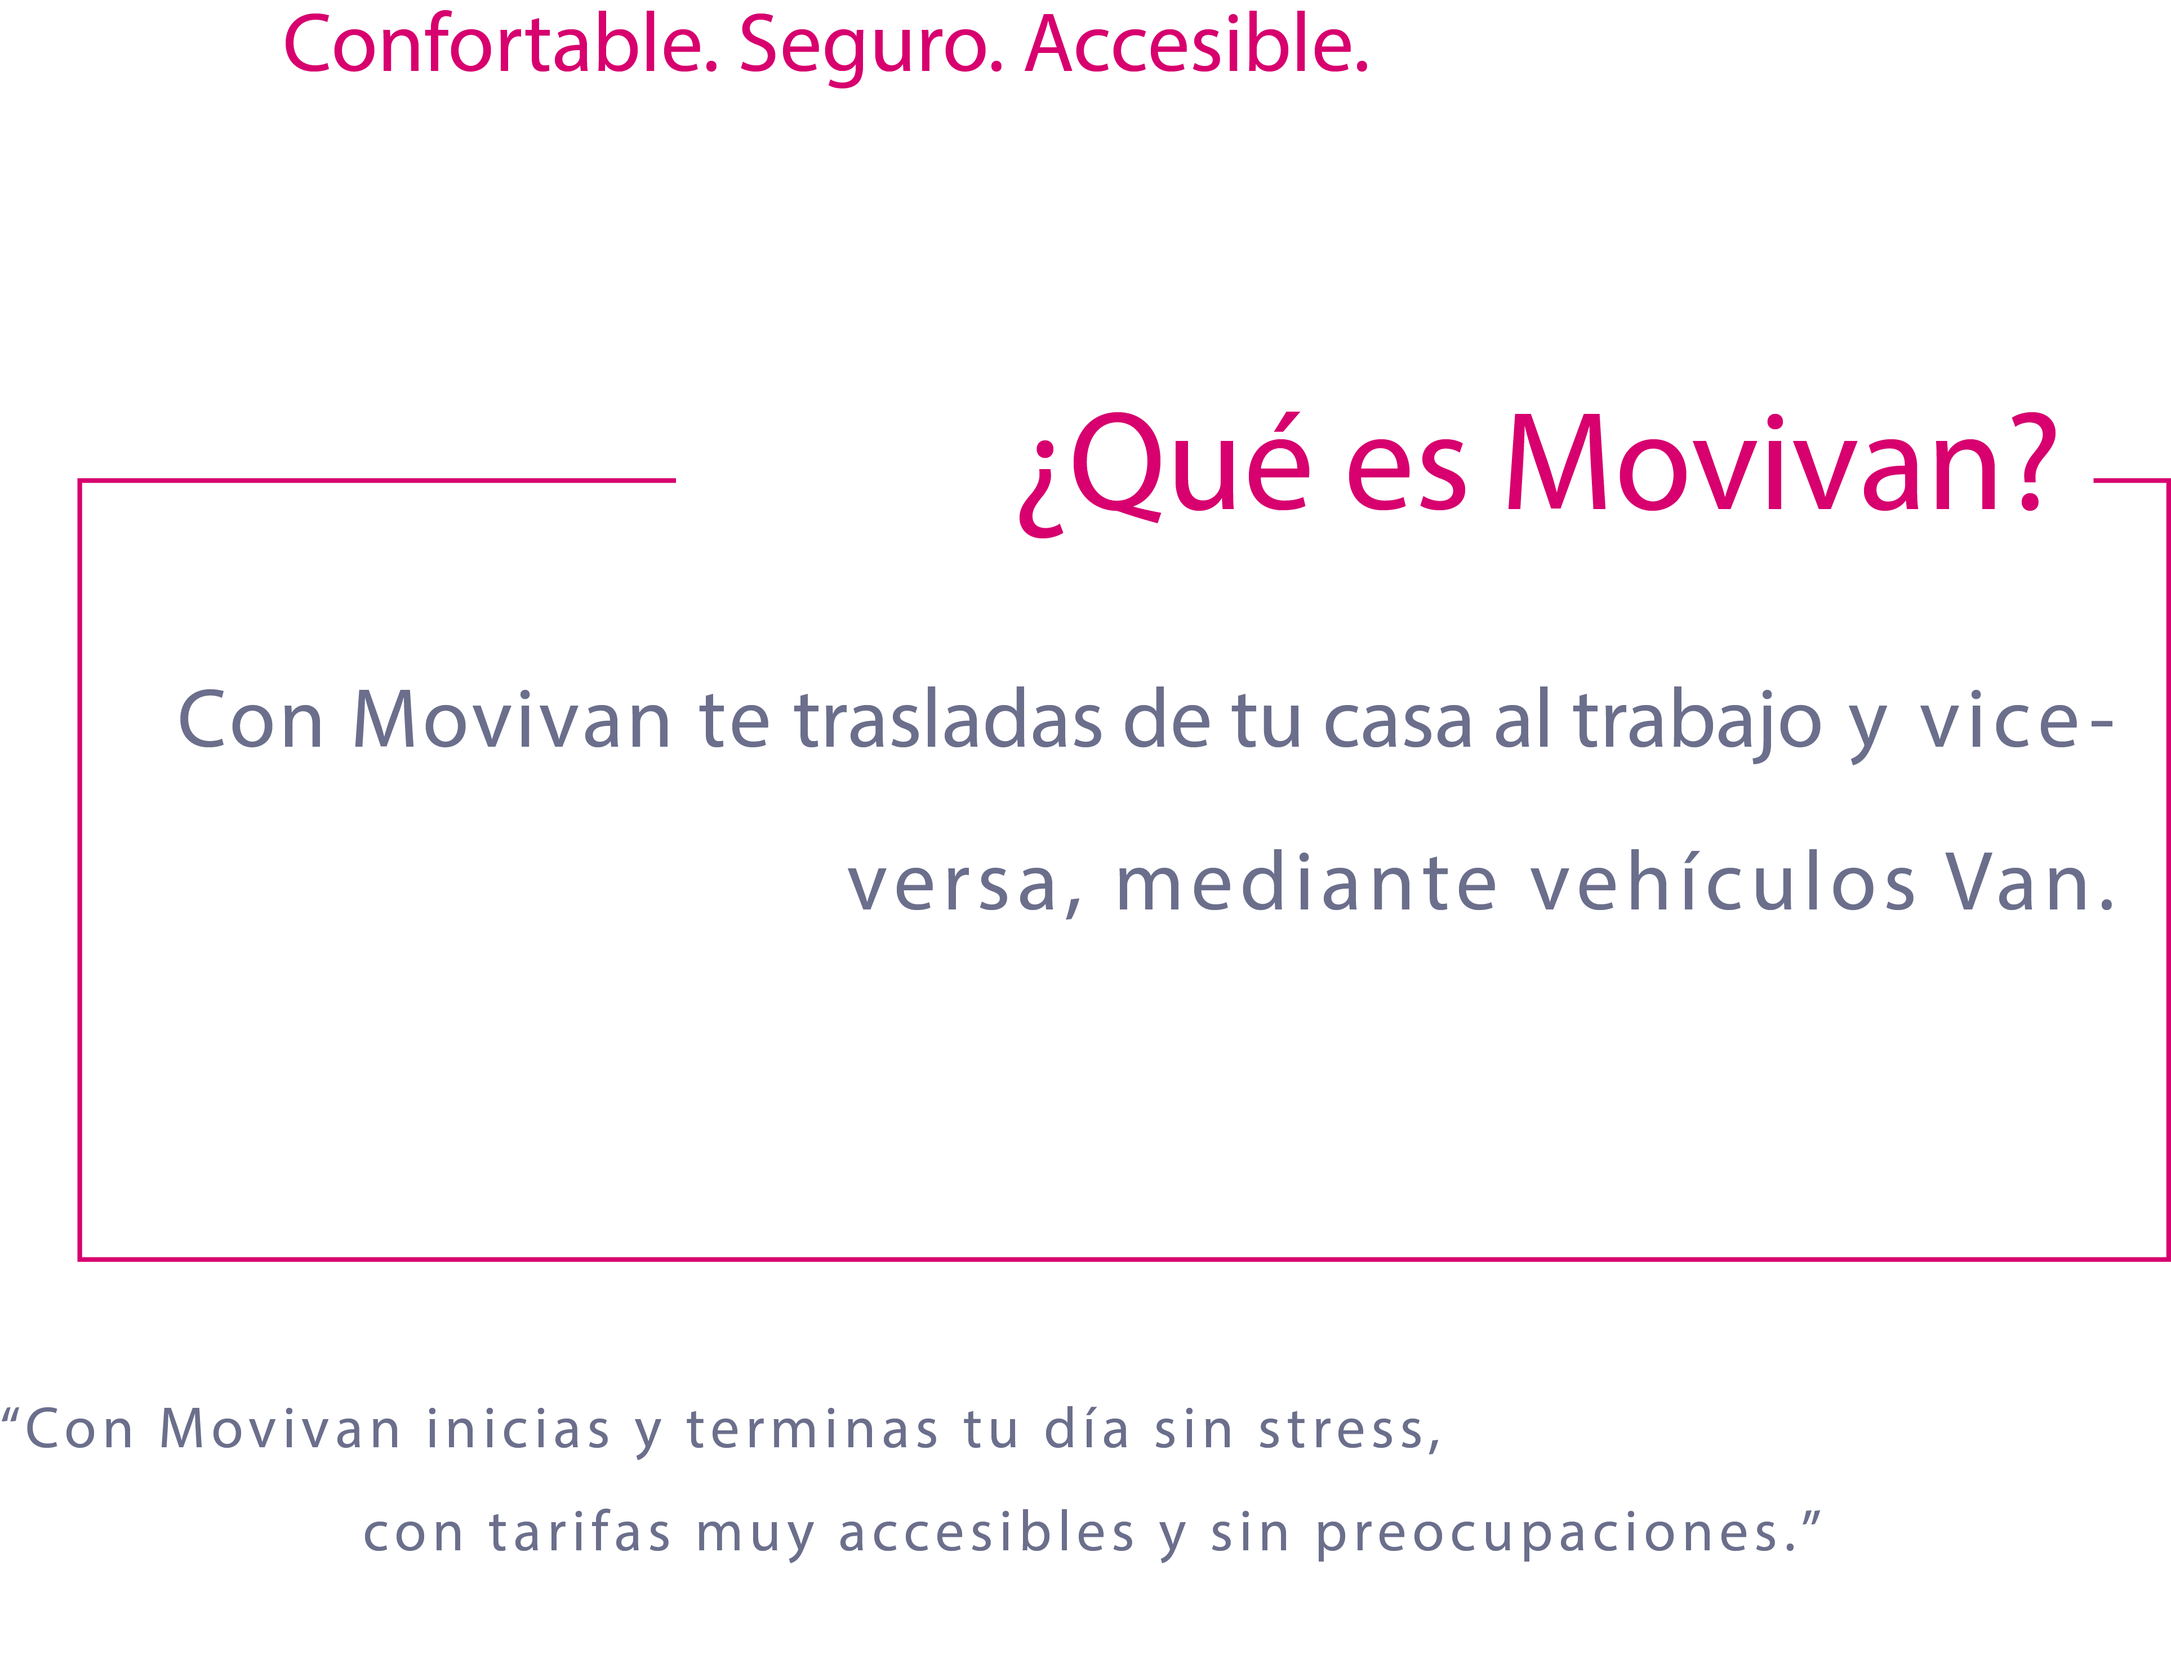
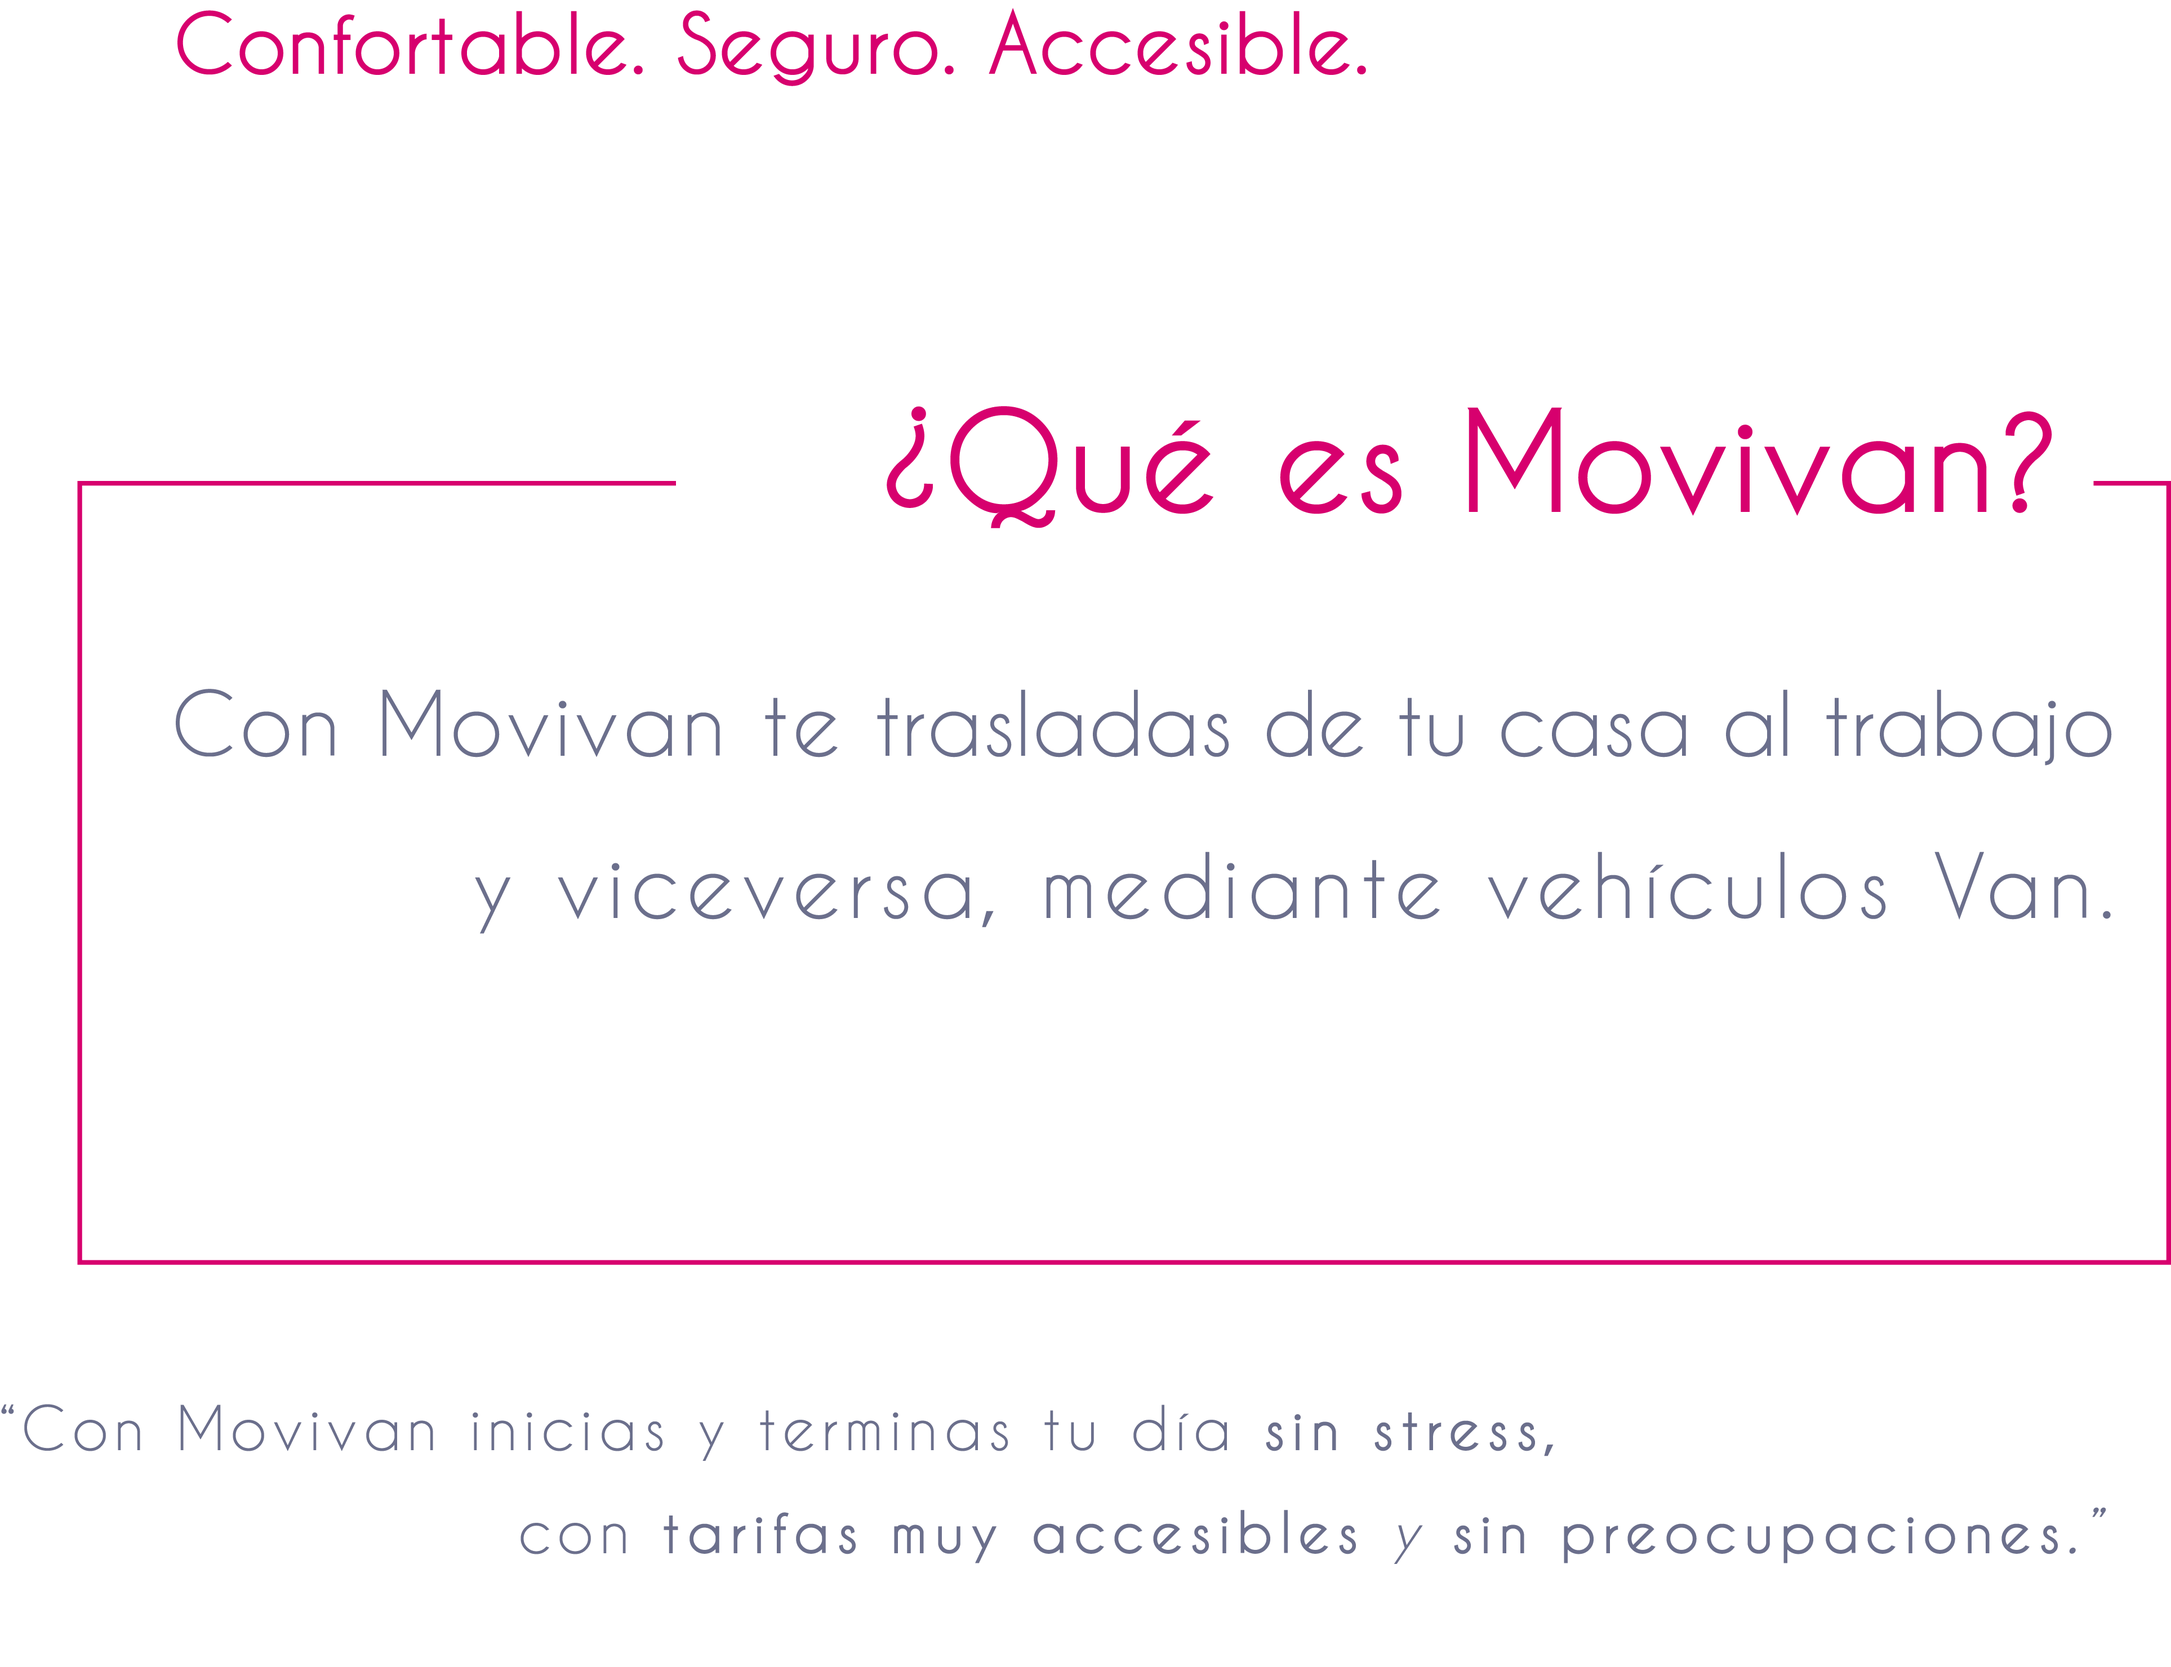
design

diff --git a/app/assets/stylesheets/custom.css.scss b/app/assets/stylesheets/custom.css.scss
@@ -328,6 +328,7 @@ position:absolute;
     color: white;
     text-align: center;
     font-size: 1.4em;
+    font-family: 'CaviarDreams';
   }
 }
 
@@ -342,6 +343,7 @@ position:absolute;
     color:white;
     text-align:center;
     font-size:1.0em;
+    font-family: 'CaviarDreams';
   }
 }
 
@@ -572,6 +574,7 @@ input {
    color: #00DD00;
    font-size: 16px;
    font-weight: bold;
+   font-family: 'CaviarDreams';
   }
 
   .send {
@@ -625,15 +628,6 @@ input {
       text-align:left;
     }
   }
-
-
-.radio-label {
-    color: white;
-      font-family: 'CaviarDreams';
-      font-size: 14px;
-      text-align:left;
-  display: inline-block;
-}
 
 
 
